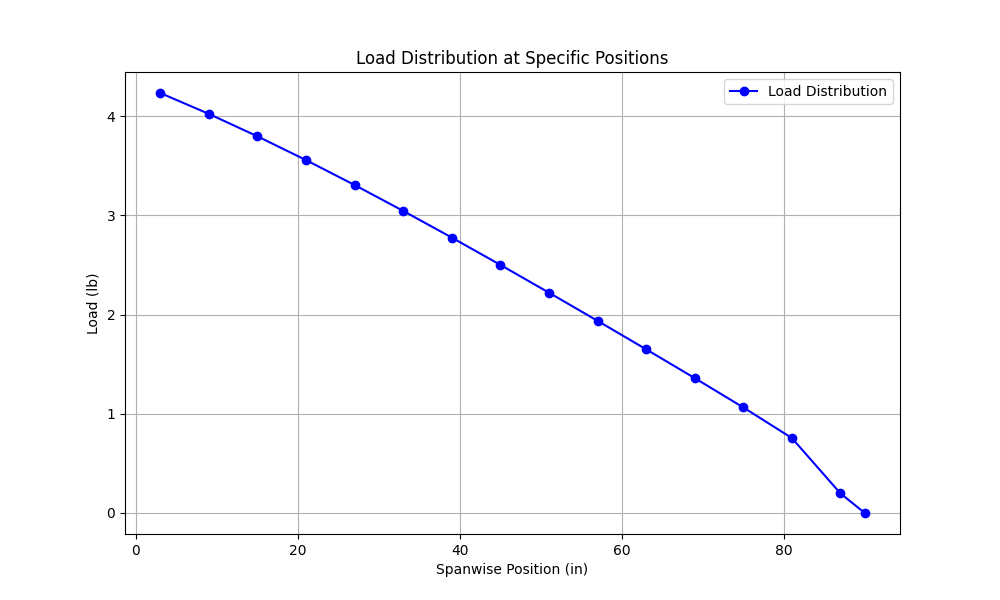
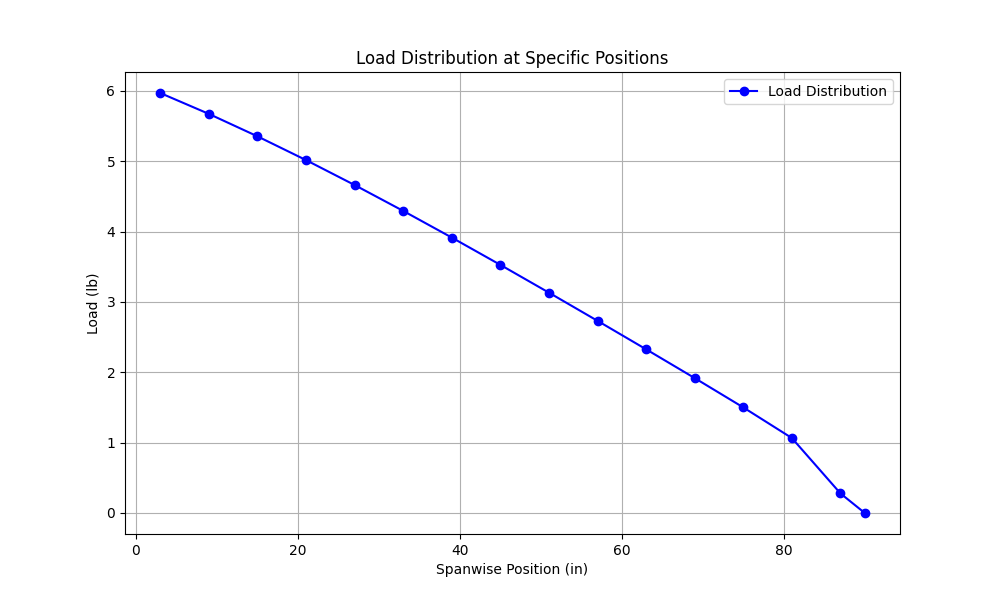
update 6

Changed region(s): [[0.093, 0.36, 0.124, 0.39]]

diff --git a/Prandtl_Elliptical_Lift_Distribution.py b/Prandtl_Elliptical_Lift_Distribution.py
@@ -11,7 +11,7 @@ logging.basicConfig(filename='lift_distribution.log', level=logging.INFO,
 span = 15 * 12  # Total wingspan in inches
 lift_coefficient = 1.165  # Lift coefficient (CL)
 rho = 0.0023769  # Air density in slugs/ft³
-velocity = 32.0  # Flight velocity in feet per second
+velocity = 38.0  # Flight velocity in feet per second
 root_chord = 3 * 12  # Root chord length in inches
 tip_chord = 1 * 12  # Tip chord length in inches
 
@@ -65,7 +65,7 @@ for i in range(len(positions) - 1, -1, -1):
 lifts_chords_loads_shear_moment = [(lift, chord, load, shear_force, bending_moment) for (lift, chord), load, shear_force, bending_moment in zip(lifts_and_chords, loads, shear_forces, bending_moments)]
 
 # Plot the lift distribution
-plt.figure(figsize=(10, 6))
+plt.figure(num=1, figsize=(10, 6))
 plt.plot(positions, [lift for lift, _, _, _, _ in lifts_chords_loads_shear_moment], '-o', label='Elliptical Lift Distribution')
 plt.xlabel('Spanwise Position (in)')
 plt.ylabel('Lift per Unit Span (lb/in)')
@@ -77,7 +77,7 @@ plt.show()
 logging.info("Plotted and saved the lift distribution")
 
 # Plot the load distribution
-plt.figure(figsize=(10, 6))
+plt.figure(num=2, figsize=(10, 6))
 plt.plot(positions, loads, '-o', label='Load Distribution', color='b')
 plt.xlabel('Spanwise Position (in)')
 plt.ylabel('Load (lb)')
@@ -89,7 +89,7 @@ plt.show()
 logging.info("Plotted and saved the load distribution")
 
 # Plot the shear force distribution
-plt.figure(figsize=(10, 6))
+plt.figure(num=3, figsize=(10, 6))
 plt.plot(positions, shear_forces, '-o', label='Shear Force Distribution', color='r')
 plt.xlabel('Spanwise Position (in)')
 plt.ylabel('Shear Force (lb)')
@@ -101,7 +101,7 @@ plt.show()
 logging.info("Plotted and saved the shear force distribution")
 
 # Plot the bending moment distribution
-plt.figure(figsize=(10, 6))
+plt.figure(num=4, figsize=(10, 6))
 plt.plot(positions, bending_moments, '-o', label='Bending Moment Distribution', color='g')
 plt.xlabel('Spanwise Position (in)')
 plt.ylabel('Bending Moment (lb-in)')

diff --git a/Prandtl_Elliptical_Lift_Distribution_Matlab.m b/Prandtl_Elliptical_Lift_Distribution_Matlab.m
@@ -58,7 +58,7 @@ figure;
 plot(positions, lifts_and_chords(:, 1), '-o');
 xlabel('Spanwise Position (in)');
 ylabel('Lift per Unit Span (lb/in)');
-title('Elliptical Lift Distribution at Specific Positions');
+title('Figure 1: Elliptical Lift Distribution at Specific Positions');
 grid on;
 
 % Plot the load distribution
@@ -66,7 +66,7 @@ figure;
 plot(positions, loads, '-o', 'Color', 'b');
 xlabel('Spanwise Position (in)');
 ylabel('Load (lb)');
-title('Load Distribution at Specific Positions');
+title('Figure 2: Load Distribution at Specific Positions');
 grid on;
 
 % Plot the shear force distribution
@@ -74,7 +74,7 @@ figure;
 plot(positions, shear_forces, '-o', 'Color', 'r');
 xlabel('Spanwise Position (in)');
 ylabel('Shear Force (lb)');
-title('Shear Force Distribution at Specific Positions');
+title('Figure 3: Shear Force Distribution at Specific Positions');
 grid on;
 
 % Plot the bending moment distribution
@@ -82,7 +82,7 @@ figure;
 plot(positions, bending_moments, '-o', 'Color', 'g');
 xlabel('Spanwise Position (in)');
 ylabel('Bending Moment (lb-in)');
-title('Bending Moment Distribution at Specific Positions');
+title('Figure 4: Bending Moment Distribution at Specific Positions');
 grid on;
 
 % Log the lift, chord length, load, shear force, and bending moment for each position
